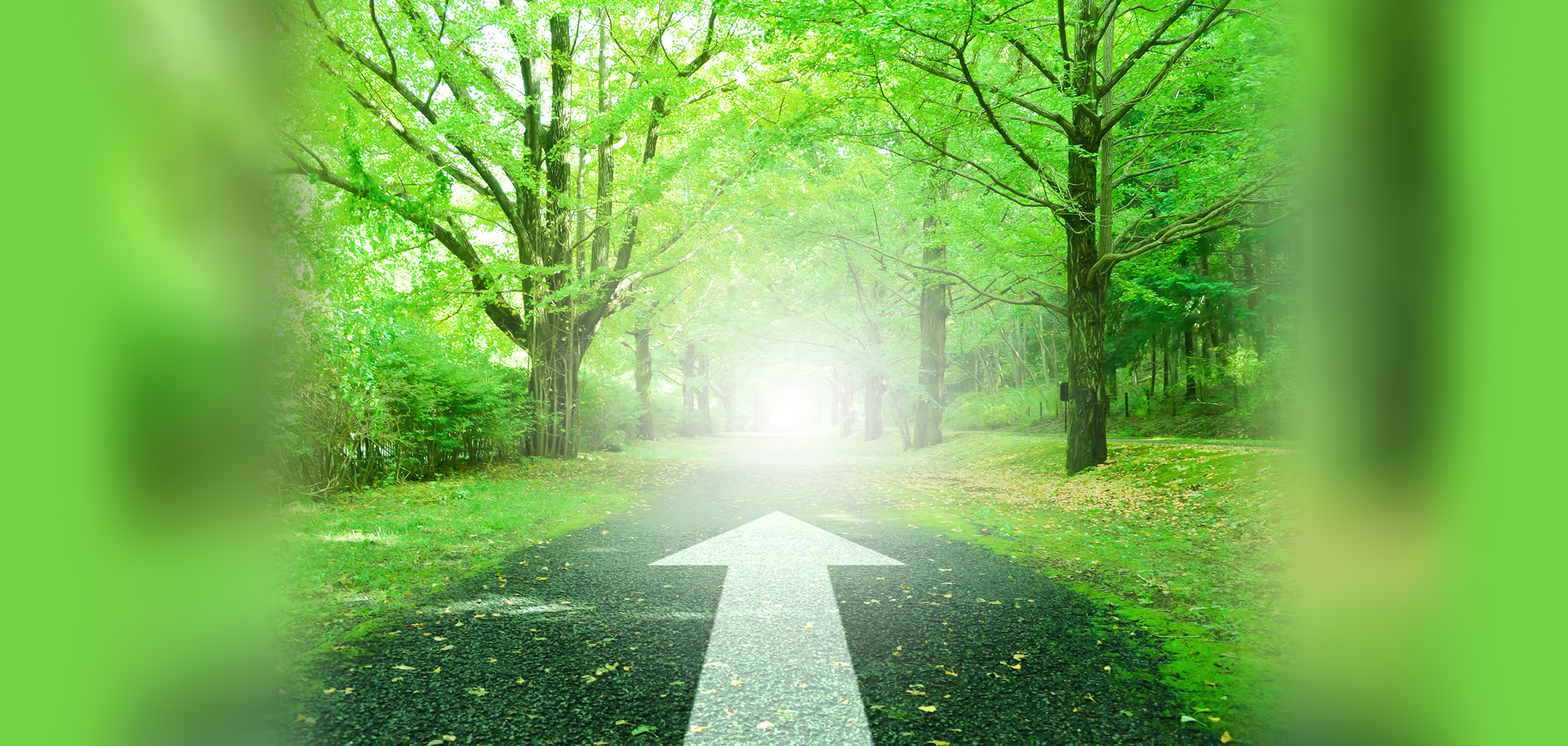
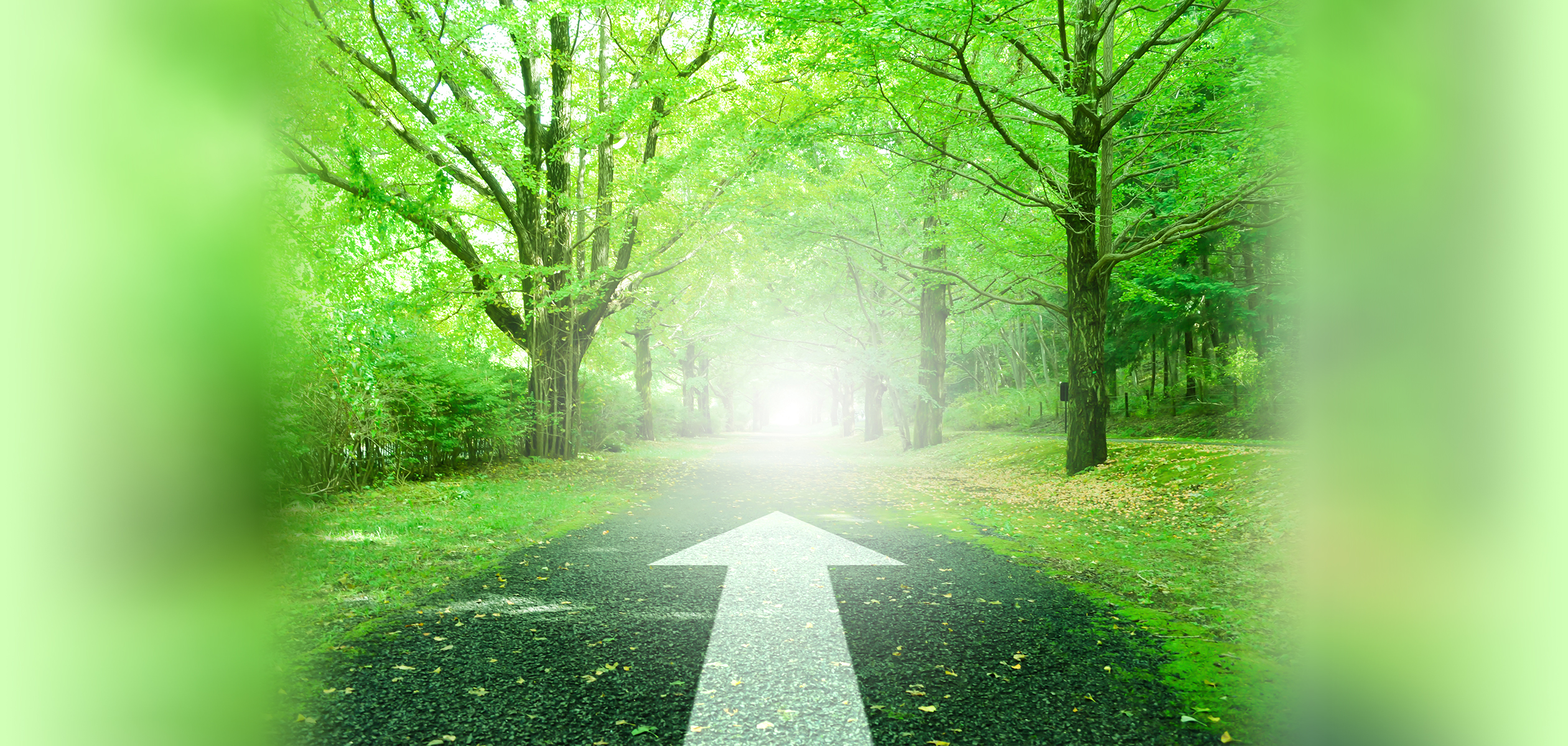
UP

diff --git a/anjet/tw/slick/slick.css b/anjet/tw/slick/slick.css
@@ -68,13 +68,14 @@
     position: relative;
     min-height: 1px;
     margin-top: 61.8px;
-    height: 160px;
-    background-color: rgba(5, 81, 119, .3);
-
+    height: 350px;/*160px*/
+    width: 100%;
+    background-color: #d1ffb6;/**/
+ overflow: hidden;
 }
 [dir='rtl'] .slick-slide{float: right;}
-/*.slick-slide img{height: 100%; margin:auto;*/ /*width: 100%; position: absolute; top: calc(-19%);}*/
-.slick-slide img{height: 100%; float: right;}
+.slick-slide img{position: absolute; height: 100%; left:50%; transform:translateX(-50%); /*width: 100%; top: calc(-19%);*/}/*照片置中*/
+/*.slick-slide img{height: 100%; float: right;} 照片靠右*/
 .slick-slide.slick-loading img{display: none; }
 .slick-slide.dragging img{pointer-events: none; }
 .slick-initialized .slick-slide{display: block;}
@@ -85,30 +86,44 @@
 .slider_box{
     position: absolute;
     top: 0;
-    margin-left: 100px;
-    width: 500px;
-    height: 100%;
+    left: 5%;
+    /*margin-left: 100px;*/
+    width: 90%;
+    height: 100%;/**/
     display: flex;
-    align-items: center;
+    align-items: center;/**/
     /*justify-content: center;*/
 }
-.slider_box_content{
-    background-color: rgba(255, 255, 255, .9);
-    padding:20px;
-    border-radius: 10px
+.slider_box.main{
+    top: 40%;
+    height: 0;
+    /*align-items: center;*/
+    justify-content: center;/**/
 }
 
-@media (min-width: 320px) {
-    .slick-slide{height: 160px;}
-    .slick-slide img{top: 0;}
+.slider_box_content{
+    color: rgb(255, 153, 0);
+    background-color: rgba(255, 255, 255, .85);
+    padding:20px;
+    border-radius: 10px;
+    text-align: center;    
+}
+
+@media (min-width: 380px) {
+    /*.slick-slide{height: 260px; width: 100%;}
+    .slick-slide img{top: 0;}*/
+}
+@media (min-width: 567px) {
+    /*.slick-slide{height: 300px; width: 100%;}
+    .slick-slide img{top: 0;}*/
 }
 
 @media (min-width: 768px) {
-    .slick-slide{height: 300px;}
-    .slick-slide img{top: 0;}
+    /*.slick-slide{height: 400px;}
+    .slick-slide img{top: 0;}*/
 }
 
 @media (min-width: 1024px) {
-    .slick-slide{height: 400px;}
-    .slick-slide img{top: 0;}
+    /*.slick-slide{height: 400px;}
+    .slick-slide img{top: 0;}*/
 }

diff --git a/anjet/tw/css/nav-sub.css b/anjet/tw/css/nav-sub.css
@@ -9,13 +9,13 @@
 .header_nav{height: 80vh; }
 .logo img {height: 36px;/*transform:scale(0.5, 0.5);*/}
 .header_nav ol, ul{margin: 0; padding: 0;z-index: 99;}
-.header_nav a{color:rgb(180, 180, 180); padding: 3px 10px; border: 1px solid rgba(255,255,255,.0);/* 預先做出有框的大小 border-radius: 5px; */}
+.header_nav a{color:rgb(80, 80, 80); padding: 3px 10px; border: 1px solid rgba(255,255,255,.0);/* 預先做出有框的大小 border-radius: 5px; */}
 .header_nav li{margin: 5px 0; padding: 3px 0 0 0; width: 100%;} 
 .header_nav ul li ul {padding-left:1rem;}/*第二層開始的ul*/
 
 .header_nav a.active{color:rgba(0, 167, 234, 1);}
 
-.header_nav ul li ul a{color:rgb(187, 187, 187);} /*第二層開始的a*/
+.header_nav ul li ul a{color:rgb(80, 80, 80);} /*第二層開始的a*/
 .header_nav > ul > li > ul{/*第二層ui的白底*/
     margin-top:0rem;/**/
     padding: 0rem .25rem .5rem;

diff --git a/anjet/tw/index.html b/anjet/tw/index.html
@@ -33,11 +33,10 @@
   <div>
       <div class="slider_index" >
         <div class="imgMask"><img src="img/index-maehe.jpg" alt="...">
-          <div class="slider_box">
+          <div class="slider_box main">
             <div class="slider_box_content">
-              <h2>Make Difference in Green Technologies</h2>
-              <!-- <h1>關於安傑特</h1>
-                <div>安傑特公司以ESG為公司永續經營的指標，進行發展綠色能源科技。並達到減少排放二氧化碳跟節約能源的社會問題。</div> -->
+              <h3>Make Difference in Green Technologies</h3>
+              <div>安傑特公司以ESG為公司永續經營的指標，進行發展綠色能源科技。並達到減少排放二氧化碳跟節約能源的社會問題。</div>
               </div>
           </div> 
         </div>
